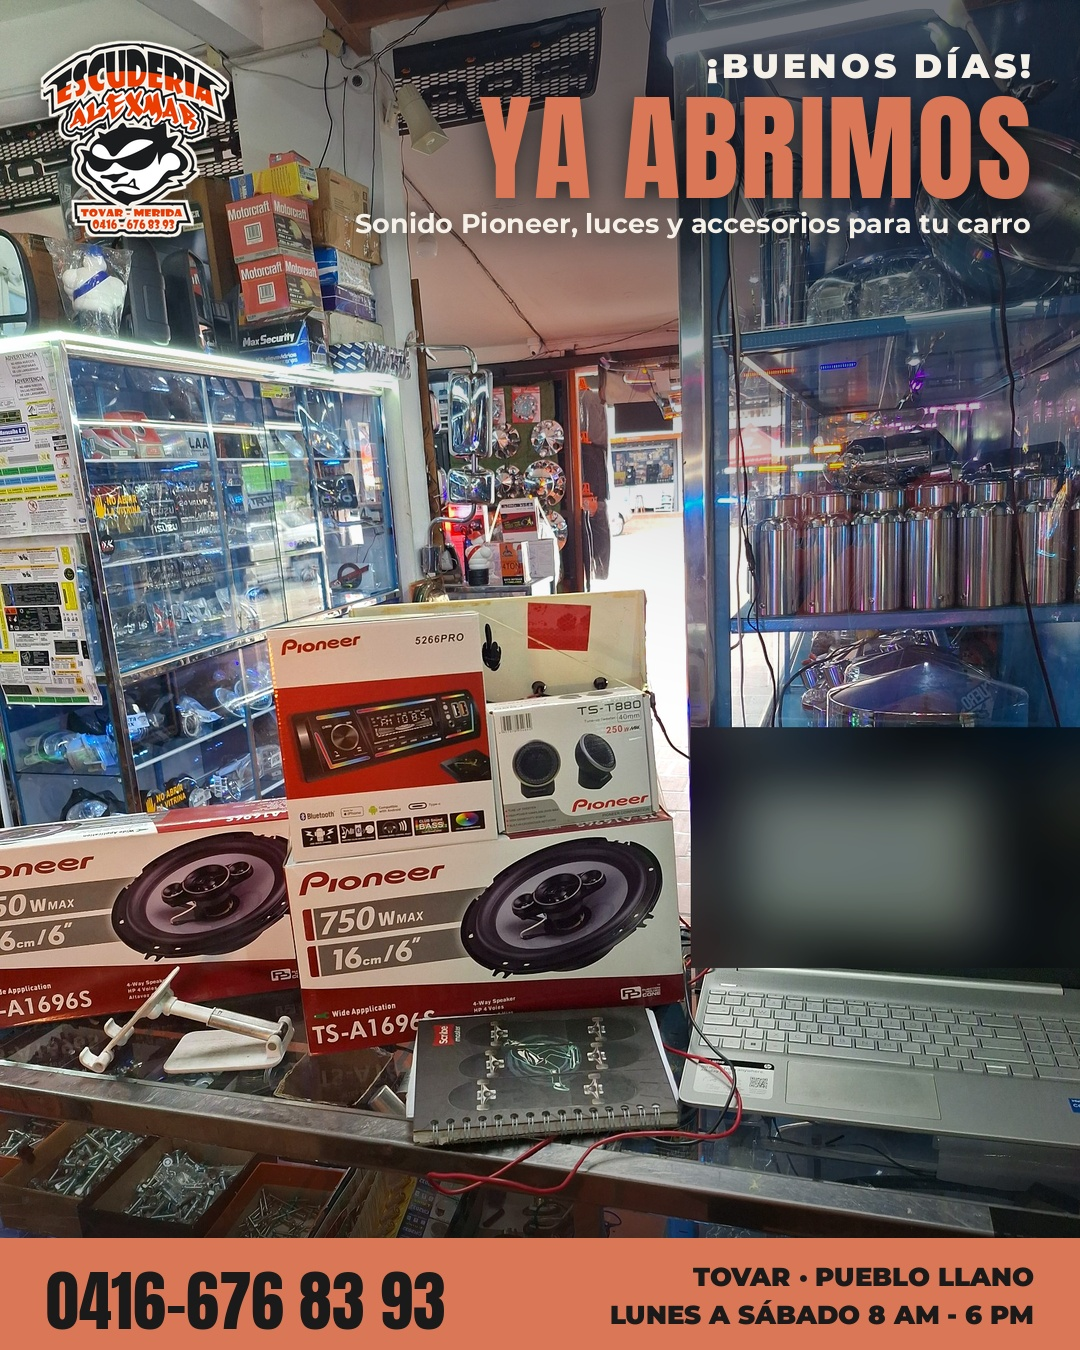
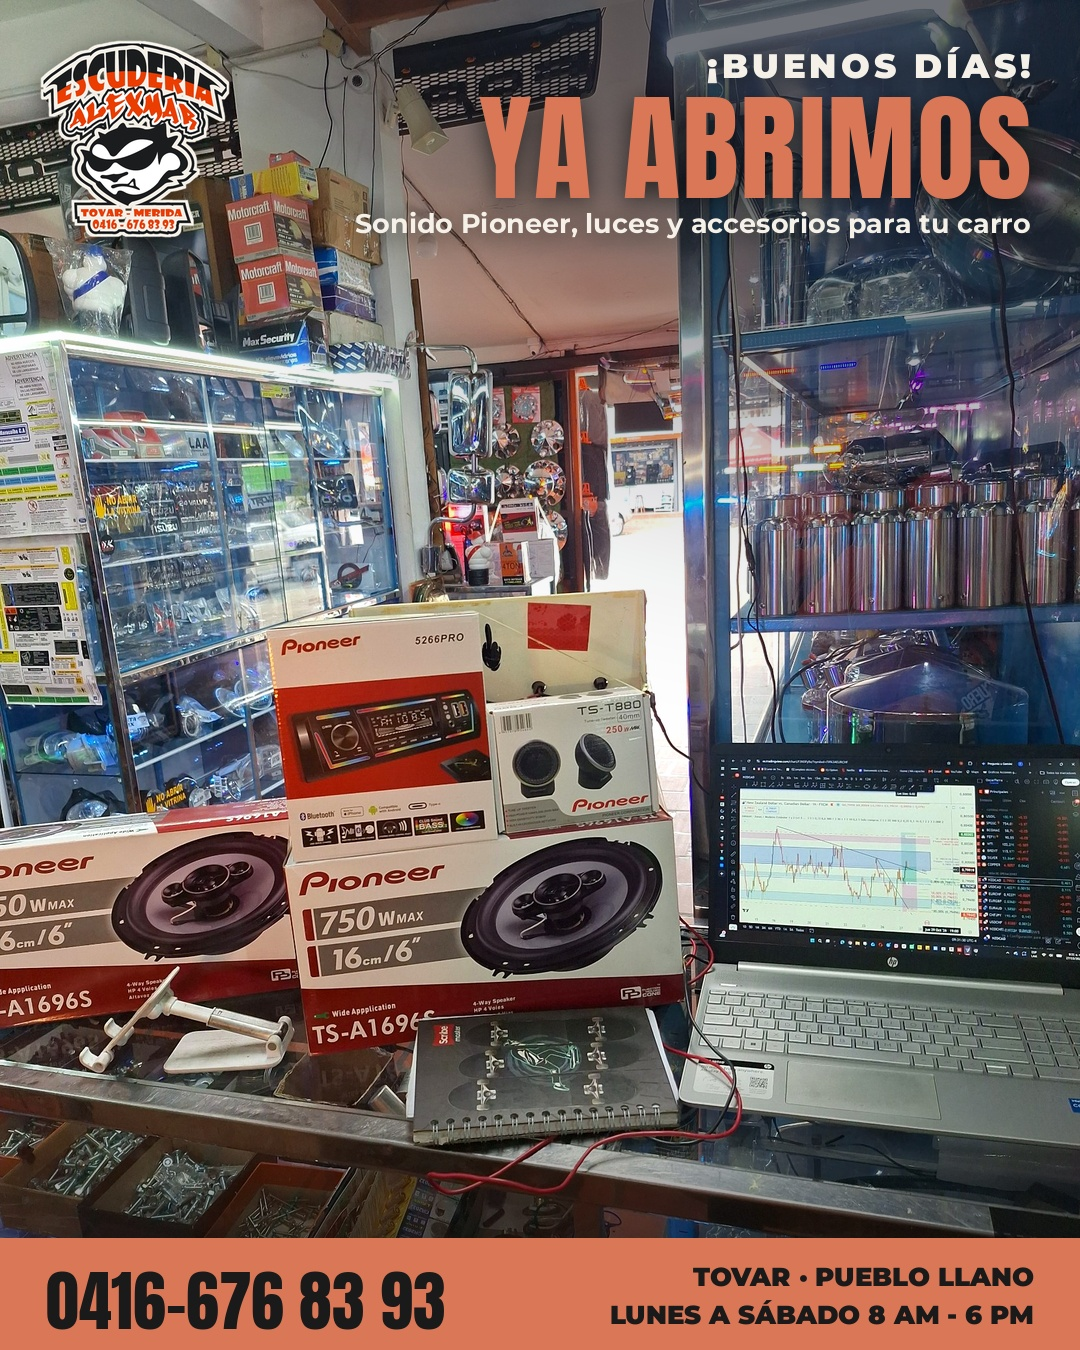
Ya abrimos Pioneer: sin desenfocar la laptop
Claude-Session: https://claude.ai/code/session_01Aweqcpm2zoc6xkiV6Zu8bi

Changed region(s): [[0.6417, 0.5289, 1.0, 0.7156]]

diff --git a/piezas/ya_abrimos/abrimos.py b/piezas/ya_abrimos/abrimos.py
@@ -21,7 +21,7 @@ def txt(cv, x, y, s, f, fill, sp=0, anchor="r"):
 import sys
 SRC = sys.argv[1] if len(sys.argv) > 1 else "foto_tienda.jpg"; OUT = sys.argv[2] if len(sys.argv) > 2 else "alexmar_ya_abrimos.jpg"
 ph = Image.open(f"{D}/{SRC}").convert("RGB")
-if SRC == "foto_pioneer.jpg":   # tapar la pantalla de la laptop
+if False:   # (desactivado) tapar la pantalla de la laptop
     k = ph.width / 1500; box = tuple(int(v * k) for v in (960, 1010, 1500, 1345))
     reg = ph.crop(box).filter(ImageFilter.GaussianBlur(40)); reg = ImageEnhance.Brightness(reg).enhance(0.55); ph.paste(reg, box)
 ph = ImageEnhance.Contrast(ph).enhance(1.08); ph = ImageEnhance.Color(ph).enhance(1.12)
